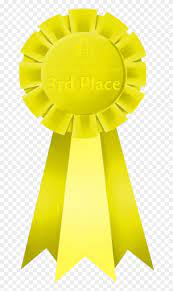
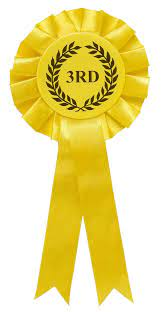
I made a new guessing game where the user tries to guess the correct number in as little guesses as possible. I used java script to build the page and the game.

diff --git a/script.js b/script.js
@@ -67,12 +67,17 @@ console.log('Congratulations! Here is your award!')
         case 1:
         case 2:
         case 3:
-            imagePath = 'gallery/blue_ribbon_1st_place_cutout-r879e60071d9b423986631315bb5b3742_x7saj_8byvr_704.webp'
+            imagePath = 'gallery/blue1stplaceribbon.png'
     break;
         case 4:
         case 5:
         case 6:
-            imagePath = 'gallery/Skyrim-Cheats-For-PC.png'
+            imagePath = 'gallery/red2ndplaceribbon.png'
+    break;
+        case 7:
+        case 8:
+        case 9: 
+            imagePath = 'gallery/yellow3rdplaceribbon.png'
     }
 
     const awardImg = document.createElement('img') // this creates an <img> element
